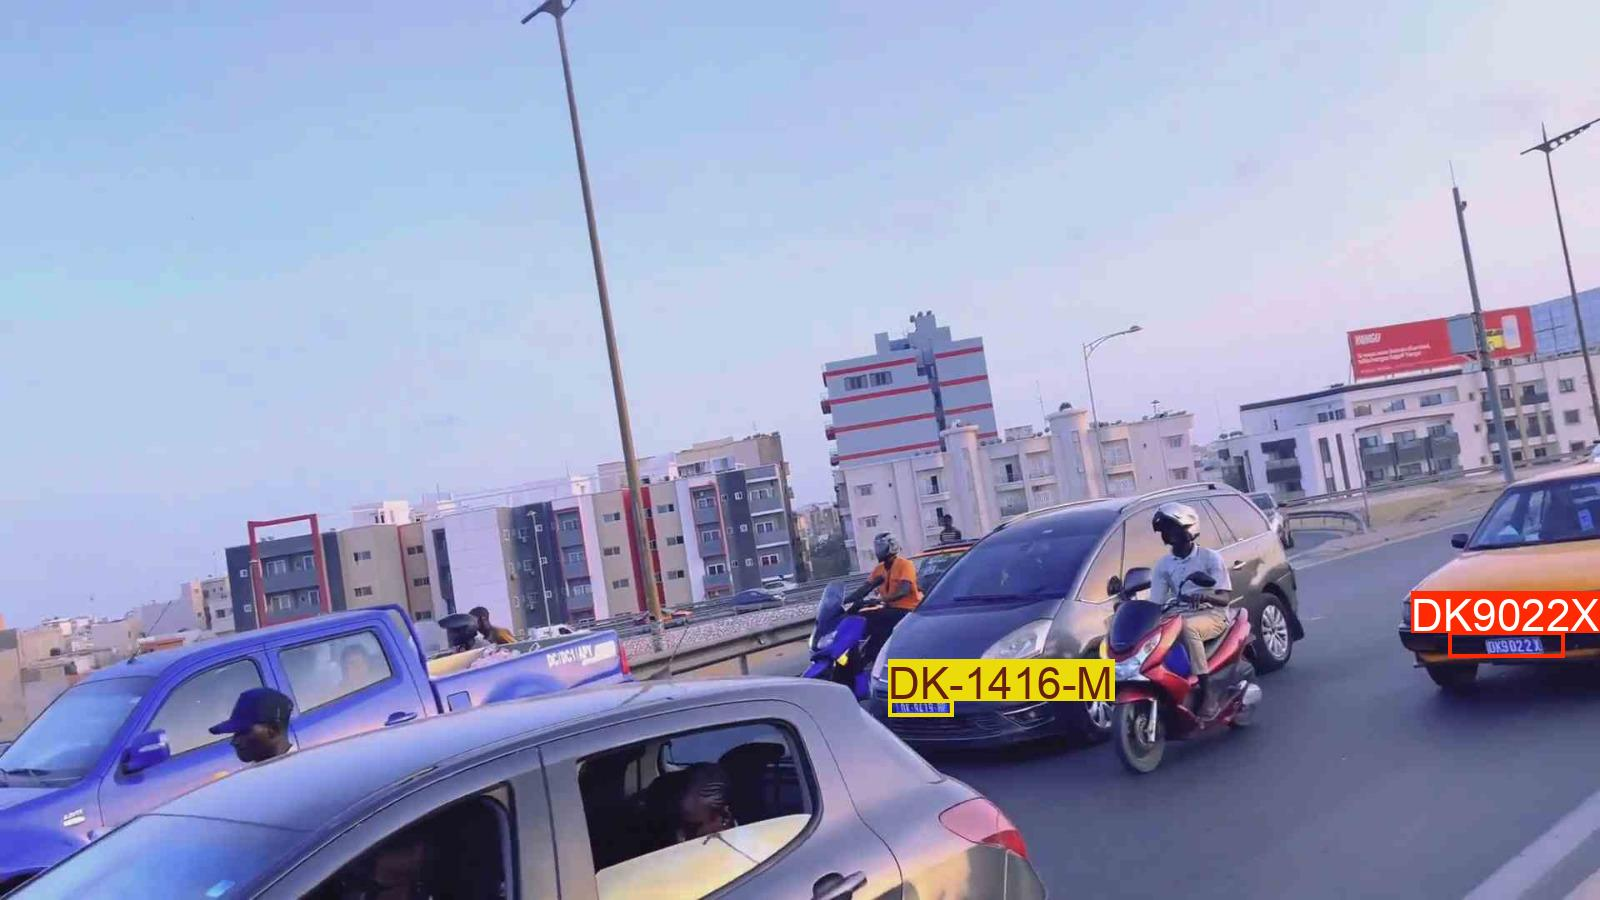
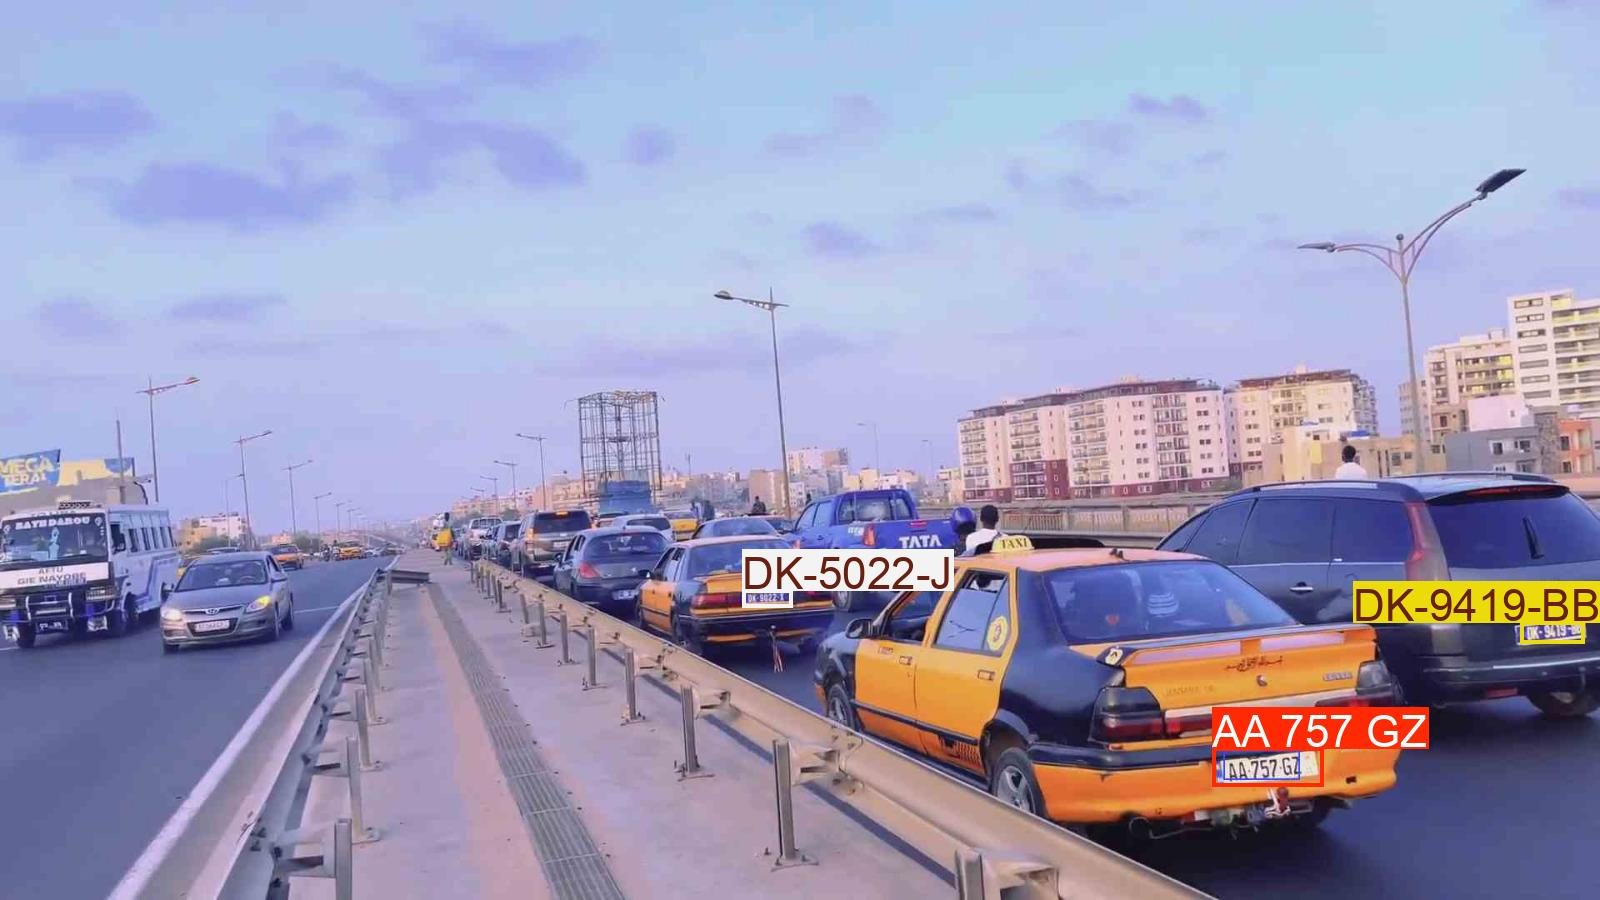
Add gemini validator

diff --git a/src/app/validators/base_validator.py b/src/app/validators/base_validator.py
@@ -1,5 +1,7 @@
 from abc import ABC, abstractmethod
 from PIL import Image
+from google import genai
+from google.genai import types
 
 class BaseValidator(ABC):
     def __init__(self,base_model):
@@ -8,6 +10,11 @@ class BaseValidator(ABC):
         Subclasses should implement the validate method.
         """
         self.base_model = base_model
+        self.client = genai.Client(api_key="AIzaSyAB8IE5VyPgfpIUr-7xMDoiW9SVYkb7tF0")
+    
+    def clean_results(results):
+        """Clean the results for visualization."""
+        return results.strip().removeprefix("```json").removesuffix("```").strip()
     
     @abstractmethod
     def validate(self, image: Image.Image, class_name: str) -> dict:
@@ -18,24 +25,25 @@ class BaseValidator(ABC):
         """
         pass
     
-    def inference(image, prompt, temp=0.5):
-    """
-    Performs inference using Google Gemini 2.5 Pro Experimental model.
+    def inference(self,image, prompt, temp=0.5):
+        """
+        Performs inference using Google Gemini 2.5 Pro Experimental model.
 
-    Args:
-        image (str or genai.types.Blob): The image input, either as a base64-encoded string or Blob object.
-        prompt (str): A text prompt to guide the model's response.
-        temp (float, optional): Sampling temperature for response randomness. Default is 0.5.
+        Args:
+            image (str or genai.types.Blob): The image input, either as a base64-encoded string or Blob object.
+            prompt (str): A text prompt to guide the model's response.
+            temp (float, optional): Sampling temperature for response randomness. Default is 0.5.
 
-    Returns:
-        str: The text response generated by the Gemini model based on the prompt and image.
-    """
-    response = client.models.generate_content(
-        model="gemini-2.5-flash-preview-05-20",  # or "gemini-2.5-pro-exp-03-25"
-        contents=[prompt, image],  # Provide both the text prompt and image as input
-        config=types.GenerateContentConfig(
-            temperature=temp,  # Controls creativity vs. determinism in output
-        ),
-    )
+        Returns:
+            str: The text response generated by the Gemini model based on the prompt and image.
+        """
+        response = self.client.models.generate_content(
+            # model="gemini-2.5-flash-preview-05-20",  # or "gemini-2.5-pro-exp-03-25"
+            model="gemini-2.5-pro",
+            contents=[prompt, image],  # Provide both the text prompt and image as input
+            config=types.GenerateContentConfig(
+                temperature=temp,  # Controls creativity vs. determinism in output
+            ),
+        )
 
-    return response.text  # Return the generated textual response 
+        return response.text  # Return the generated textual response 

diff --git a/src/app/validators/gemini_validator.py b/src/app/validators/gemini_validator.py
@@ -12,11 +12,14 @@ from PIL import Image
 from ultralytics.utils.downloads import safe_download
 from ultralytics.utils.plotting import Annotator, colors
 import base_validator
-# from src.app.validators.base_validator import BaseValidator
+from src.app.validators.base_validator import BaseValidator
 
-gemini.configure(api_key=os.getenv('GOOGLE_API_KEY'))
 
 class GeminiValidator(BaseValidator):
+    def __init__(self):
+        super().__init__(base_model="gemini-2.5-pro")
+        self.client = genai.Client(api_key="AIzaSyAB8IE5VyPgfpIUr-7xMDoiW9SVYkb7tF0")
+        
     def validate(self, image: Image.Image, class_name: str) -> dict:
         buf = io.BytesIO()
         image.save(buf, format='PNG')
@@ -32,6 +35,45 @@ class GeminiValidator(BaseValidator):
         label = content[1]
         confidence = float(content[-1])
         return {'label': label, 'confidence': confidence}
+    
+    def validate_lpr(self, image: Image.Image, class_name: str) -> dict:
+        # Define the text prompt
+        prompt = """
+        Detect the 2d bounding box around:
+        highlight the area off all visible license plates in each car.
+        """
+
+        # Fixed, plotting function depends on this.
+        output_prompt = """
+        Return just box_2d which will be location of detected text areas + label, the label will be license plate number , 
+        use OCR to extract the the plate number, if license plate is not clear ignore it , no additional text.
+        """
+
+        image, w, h = read_image("./trafic5.jpg")  # Read img, extract width, height
+
+
+        print("Starting inference...")
+        results = self.inference(image, prompt + output_prompt)  # Perform inference
+        print(results)
+        cln_results = json.loads(clean_results(results))  # Clean results, list convert
+
+        annotator = Annotator(image)  # initialize Ultralytics annotator
+
+        for idx, item in enumerate(cln_results):
+            # By default, gemini model return output with y coordinates first.
+            # Scale normalized box coordinates (0–1000) to image dimensions
+            y1, x1, y2, x2 = item["box_2d"]  # bbox post processing,
+            y1 = y1 / 1000 * h
+            x1 = x1 / 1000 * w
+            y2 = y2 / 1000 * h
+            x2 = x2 / 1000 * w
+
+            # if x1 > x2:
+            #     x1, x2 = x2, x1  # Swap x-coordinates if needed
+            # if y1 > y2:
+            #     y1, y2 = y2, y1  # Swap y-coordinates if needed
+
+            annotator.box_label([x1, y1, x2, y2], label=item["label"], color=colors(idx, True))
     
     def object_detection(self, image: Image.Image) -> list:
         """Detect objects in the image using Gemini's object detection capabilities."""

diff --git a/test/test_validator.py b/test/test_validator.py
@@ -1,0 +1,67 @@
+import base64
+import io
+from PIL import Image
+import pytest
+from fastapi.testclient import TestClient
+import src.app.main as main_module
+from src.app.main import app
+
+# Dummy validator that always returns correct label and high confidence
+class DummyValidator:
+    def validate(self, image, class_name):
+        return {'label': class_name, 'confidence': 0.9}
+
+@pytest.fixture(autouse=True)
+def patch_validators(monkeypatch):
+    # Replace all real validators with DummyValidator
+    monkeypatch.setitem(main_module.VALIDATORS, 'openai', DummyValidator())
+    monkeypatch.setitem(main_module.VALIDATORS, 'gemini', DummyValidator())
+    monkeypatch.setitem(main_module.VALIDATORS, 'nvidia', DummyValidator())
+
+client = TestClient(app)
+
+def get_sample_image_base64():
+    # Create a simple 10x10 red image
+    img = Image.new('RGB', (10, 10), color='red')
+    buf = io.BytesIO()
+    img.save(buf, format='PNG')
+    return base64.b64encode(buf.getvalue()).decode('utf-8')
+
+
+def test_validate_success():
+    payload = {
+        'image_base64': get_sample_image_base64(),
+        'bbox': {'x': 0, 'y': 0, 'width': 10, 'height': 10},
+        'class_name': 'license_plate',
+        'validators': ['openai', 'gemini', 'nvidia']
+    }
+    response = client.post('/validate', json=payload)
+    assert response.status_code == 200
+    data = response.json()
+    for key in payload['validators']:
+        assert key in data
+        assert data[key]['label'] == 'license_plate'
+        assert data[key]['confidence'] >= 1 and data[key]['confidence'] <= 10
+        assert data[key]['validated'] is True
+
+
+def test_unknown_validator():
+    payload = {
+        'image_base64': get_sample_image_base64(),
+        'bbox': {'x': 0, 'y': 0, 'width': 10, 'height': 10},
+        'class_name': 'age',
+        'validators': ['foo']
+    }
+    response = client.post('/validate', json=payload)
+    assert response.status_code == 400
+    assert 'Unknown validator' in response.json()['detail']
+
+
+def test_invalid_image():
+    payload = {
+        'image_base64': 'not-a-valid-base64',
+        'bbox': {'x': 0, 'y': 0, 'width': 10, 'height': 10},
+        'class_name': 'gender'
+    }
+    response = client.post('/validate', json=payload)
+    assert response.status_code == 400

diff --git a/src/app/main.py b/src/app/main.py
@@ -1,6 +1,6 @@
 import os
 from fastapi import FastAPI, HTTPException
-from pydantic import BaseSettings
+from pydantic_settings import BaseSettings  # updated for pydantic v2+ (install pydantic-settings)
 from typing import List
 from src.app.models import ValidateRequest, ValidateResponse, ValidatorResult
 from src.app.utils.image_utils import decode_image, crop_image
@@ -13,6 +13,7 @@ class Settings(BaseSettings):
     google_api_key: str
     nvidia_nim_endpoint: str
     nvidia_nim_api_key: str
+
     class Config:
         env_file = '.env'
 
@@ -20,7 +21,6 @@ settings = Settings()
 
 app = FastAPI(title='VLM Validator Service')
 
-# Instantiate validators
 VALIDATORS = {
     'openai': OpenAIValidator(),
     'gemini': GeminiValidator(),
@@ -29,21 +29,18 @@ VALIDATORS = {
 
 @app.post('/validate', response_model=ValidateResponse)
 def validate(req: ValidateRequest):
-    # Decode and crop
     try:
         img = decode_image(req.image_base64)
         crop = crop_image(img, req.bbox)
     except Exception as e:
         raise HTTPException(status_code=400, detail=str(e))
 
-    # Select validators
     names = req.validators or list(VALIDATORS.keys())
     result = {}
     for name in names:
         if name not in VALIDATORS:
             raise HTTPException(status_code=400, detail=f"Unknown validator: {name}")
-        val = VALIDATORS[name].validate(crop, req.class_name)
-        # Convert to 1-10 scale
+        val = VALIDATORS[name].validate(crop, req.class_name ,req.task)
         conf10 = max(1, min(int(val['confidence'] * 10), 10))
         validated = (val['label'].lower() == req.class_name.lower())
         result[name] = ValidatorResult(label=val['label'], confidence=conf10, validated=validated)

diff --git a/src/app/validators/test.py b/src/app/validators/test.py
@@ -90,7 +90,7 @@ Return just box_2d which will be location of detected text areas + label, the la
 use OCR to extract the the plate number, if license plate is not clear ignore it , no additional text.
 """
 
-image, w, h = read_image("./trafic5.jpg")  # Read img, extract width, height
+image, w, h = read_image("./trafic2.jpg")  # Read img, extract width, height
 
 
 print("Starting inference...")
@@ -109,10 +109,10 @@ for idx, item in enumerate(cln_results):
     y2 = y2 / 1000 * h
     x2 = x2 / 1000 * w
 
-    # if x1 > x2:
-    #     x1, x2 = x2, x1  # Swap x-coordinates if needed
-    # if y1 > y2:
-    #     y1, y2 = y2, y1  # Swap y-coordinates if needed
+    if x1 > x2:
+        x1, x2 = x2, x1  # Swap x-coordinates if needed
+    if y1 > y2:
+        y1, y2 = y2, y1  # Swap y-coordinates if needed
 
     annotator.box_label([x1, y1, x2, y2], label=item["label"], color=colors(idx, True))
 

diff --git a/src/app/models.py b/src/app/models.py
@@ -11,6 +11,7 @@ class ValidateRequest(BaseModel):
     image_base64: str
     bbox: BBox
     class_name: str
+    task: Literal["lpr", "age", "gender"]   #restrict to only these options
     validators: Optional[List[Literal['openai', 'gemini', 'nvidia']]] = None
 
 class ValidatorResult(BaseModel):

diff --git a/README.md b/README.md
@@ -12,3 +12,6 @@ Model used
 2. Install dependencies:
    ```bash
    pip install -r requirements.txt
+
+## To test :
+pytest --maxfail=1 --disable-warnings -q
